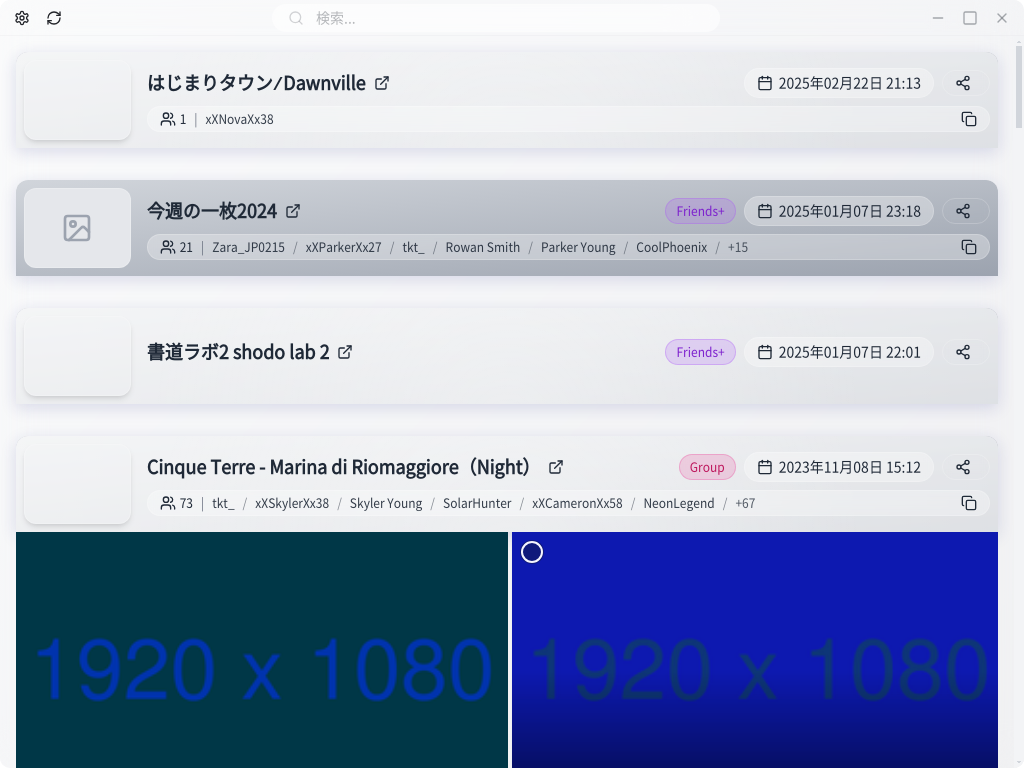
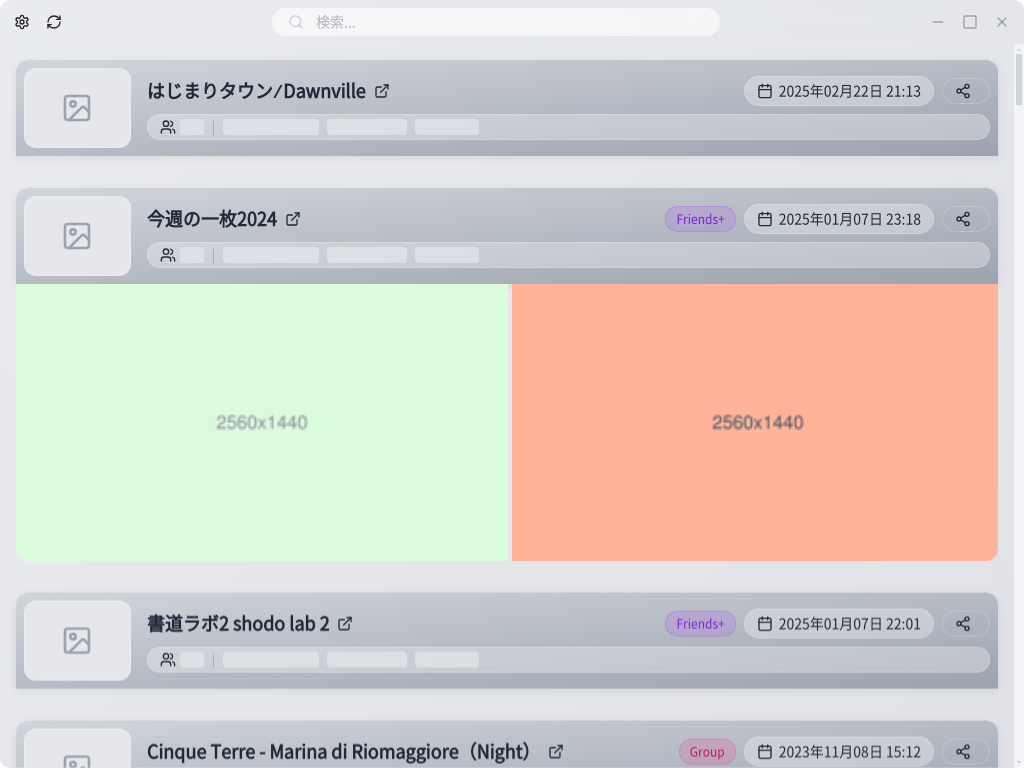
fix: update landing page preview images and increase app header height
- Regenerated all landing page preview images with improved pastel color theme
- Increased AppHeader height from 9 to 11 for better visual balance
- Updated both pages/public and playwright/previews directories with new screenshots

🤖 Generated with [Claude Code](https://claude.ai/code)

diff --git a/src/v2/components/AppHeader.tsx b/src/v2/components/AppHeader.tsx
@@ -108,7 +108,7 @@ export const AppHeader: React.FC<AppHeaderProps> = ({
 
   return (
     <div
-      className="flex h-9 items-center justify-between px-2 select-none border-b dark:border-gray-700"
+      className="flex h-11 items-center justify-between px-2 select-none border-b dark:border-gray-700"
       style={{ WebkitAppRegion: 'drag' } as React.CSSProperties}
       onDoubleClick={handleMaximize}
     >
